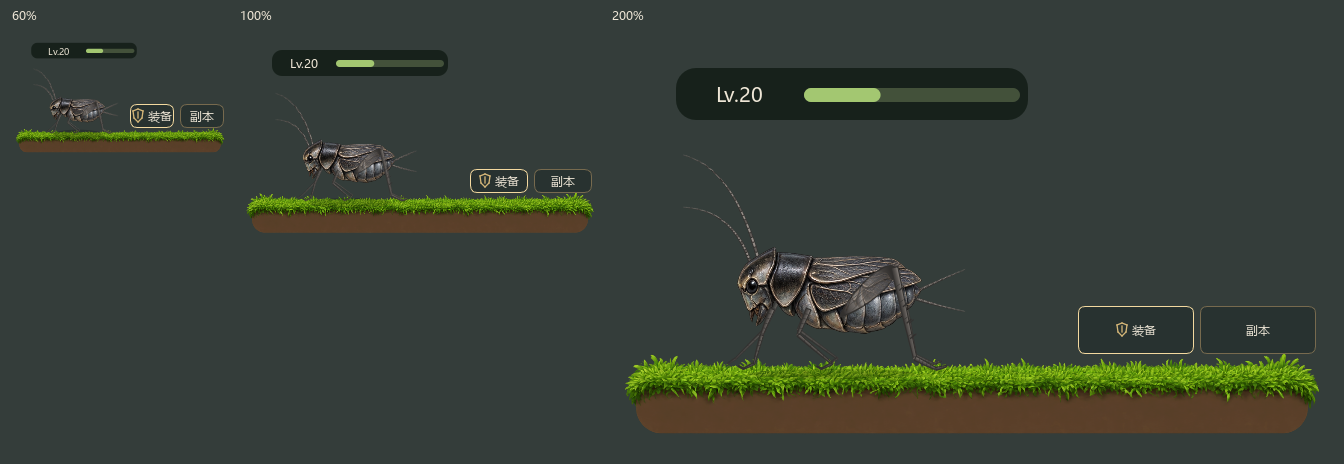
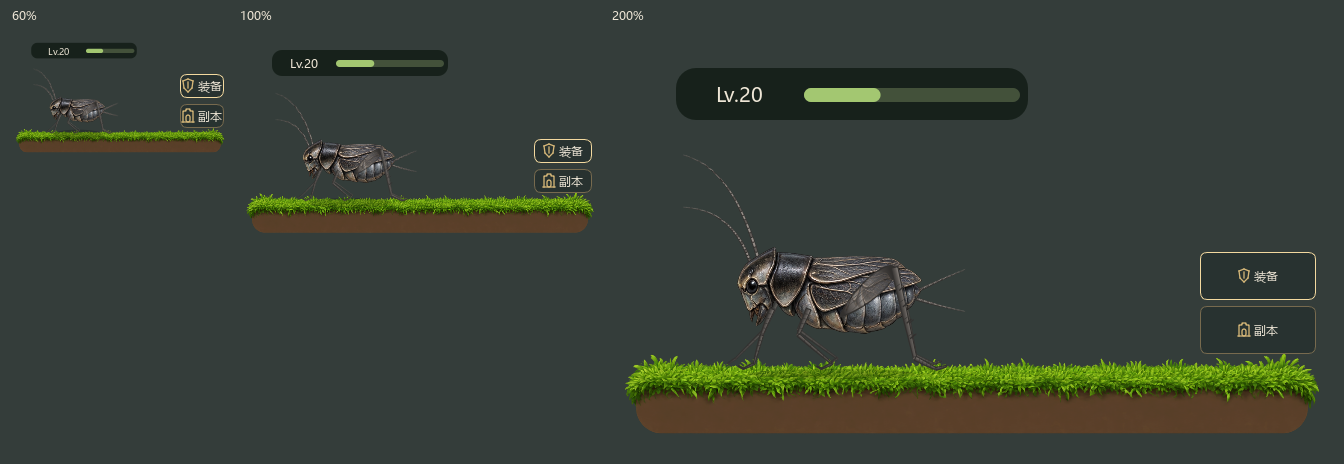
v0.6.14 Follow pet movement with open windows and stack idle actions

diff --git a/main.py b/main.py
@@ -145,6 +145,7 @@ class Pet(QWidget):
         self.btn_attr.clicked.connect(self._toggle_equipment_panel)
 
         self.btn_dungeon = QPushButton("副本", self)
+        self.btn_dungeon.setIcon(mode_icon("dungeon"))
         self.btn_dungeon.setStyleSheet(css)
         self.btn_dungeon.setFixedSize(58, 28)
         self.btn_dungeon.setCursor(Qt.CursorShape.PointingHandCursor)
@@ -190,11 +191,11 @@ class Pet(QWidget):
             bh = max(24, min(48, int(24 * self.zoom)))
             self.btn_attr.setFixedSize(bw, bh)
             self.btn_dungeon.setFixedSize(bw, bh)
-            bx = self.width() - 2*bw - 6 - int(8*self.zoom)
-            by = int((TOP_PAD+FOOT_Y-10)*self.zoom) - bh
+            bx = self.width() - bw - int(8*self.zoom)
+            by = int((TOP_PAD+FOOT_Y-10)*self.zoom) - 2*bh - 6
             self.btn_attr.move(bx, by)
             self.btn_attr.show()
-            self.btn_dungeon.move(bx + bw + 6, by)
+            self.btn_dungeon.move(bx, by + bh + 6)
             self.btn_dungeon.show()
 
     def _toggle_equipment_panel(self) -> None:
@@ -654,6 +655,23 @@ class Pet(QWidget):
             event.accept()
             return
         super().mousePressEvent(event)
+
+    def moveEvent(self, event) -> None:
+        super().moveEvent(event)
+        delta = event.pos() - event.oldPos()
+        if delta.isNull():
+            return
+        for name in ('panel', 'settings_panel', 'equip_panel', 'dungeon_sel', 'arena_win'):
+            panel = getattr(self, name, None)
+            if panel is None or not panel.isVisible():
+                continue
+            target = panel.pos() + delta
+            screen = QApplication.screenAt(target + panel.rect().center()) or self.screen()
+            bounds = screen.availableGeometry()
+            target.setX(max(bounds.left(), min(target.x(), bounds.right()-panel.width()+1)))
+            target.setY(max(bounds.top(), min(target.y(), bounds.bottom()-panel.height()+1)))
+            panel.move(target)
+            # 装备页自身的 moveEvent 继续负责右侧背包的贴靠与边界处理。
 
     def mouseMoveEvent(self, event) -> None:
         if self._dragging and (event.buttons() & Qt.MouseButton.LeftButton):

diff --git a/gameplay_checklist.py b/gameplay_checklist.py
@@ -38,10 +38,35 @@ class GameplayTests(unittest.TestCase):
             ground = self.pet._grass_rect(zoom)
             pix = sprite('grass')
             self.assertAlmostEqual(ground.width()/ground.height(), pix.width()/pix.height())
-            self.assertEqual(self.pet.btn_attr.y(), self.pet.btn_dungeon.y())
+            self.assertEqual(self.pet.btn_attr.x(), self.pet.btn_dungeon.x())
+            self.assertEqual(self.pet.btn_dungeon.y(), self.pet.btn_attr.y()+self.pet.btn_attr.height()+6)
+            self.assertEqual(self.pet.btn_attr.width(), max(44, min(116, int(58*zoom))))
+            self.assertEqual(self.pet.btn_attr.height(), max(24, min(48, int(24*zoom))))
+            self.assertFalse(self.pet.btn_dungeon.icon().isNull())
         self.pet.settings.show_bar = False
         self.pet._update_mask()
         self.assertTrue(self.pet.mask().contains(self.pet.btn_attr.geometry().center()))
+
+    def test_open_windows_follow_pet_movement(self):
+        from PySide6.QtCore import QPoint
+        self.pet.show()
+        self.pet.move(10, 10)
+        self.pet._toggle_equipment_panel()
+        equipment_panel = self.pet.equip_panel
+        self.pet.settings_panel.show()
+        equipment_panel.move(10, 10)
+        self.pet.settings_panel.move(10, 10)
+        self.app.processEvents()
+        before = [p.pos() for p in (equipment_panel, self.pet.settings_panel)]
+        self.pet.move(self.pet.pos()+QPoint(12, 9))
+        self.app.processEvents()
+        for panel, old in zip((equipment_panel, self.pet.settings_panel), before):
+            self.assertEqual(panel.pos(), old+QPoint(12, 9))
+        self.pet.settings_panel.hide()
+        hidden_pos = self.pet.settings_panel.pos()
+        self.pet.move(self.pet.pos()+QPoint(12, 9))
+        self.app.processEvents()
+        self.assertEqual(self.pet.settings_panel.pos(), hidden_pos)
 
     def test_context_menu_refreshes_state_and_routes_actions(self):
         from menu_ui import create_menu

diff --git a/ui_theme.py b/ui_theme.py
@@ -57,6 +57,11 @@ def mode_icon(kind):
         points = [QPointF(3,3), QPointF(8,1), QPointF(13,3), QPointF(12,10), QPointF(8,14), QPointF(4,10), QPointF(3,3)]
         for a,b in zip(points,points[1:]): p.drawLine(a,b)
         p.drawLine(8,4,8,10)
+    elif kind == 'dungeon':
+        # 城门：与装备盾牌共用暖金线条。
+        p.drawLine(2,14,14,14)
+        p.drawPolyline([QPointF(3,14), QPointF(3,3), QPointF(6,3), QPointF(6,1), QPointF(10,1), QPointF(10,3), QPointF(13,3), QPointF(13,14)])
+        p.drawRoundedRect(QRectF(6,7,4,7), 2, 2)
     else:
         p.drawRoundedRect(QRectF(2,2,12,12), 2, 2)
         p.drawLine(5,5,11,5)

diff --git a/AI_HANDOVER.md b/AI_HANDOVER.md
@@ -230,3 +230,8 @@
 - 挂机窗口基准改为 360×210、角色中心 CX=110；此条取代 v0.6.11 的尺寸及内嵌按钮布局。装备/副本按钮在蛐蛐右侧横向并排，位于草地上方。
 - _grass_rect 根据裁切后草地 sprite 的实际宽高比计算高度，绘制及 mask 共用几何，禁止用固定高度拉伸素材。
 - 保留绿色浓密草面及纯色土层。三档缩放预览已更新，完整检查 79 项。
+
+### v0.6.14：窗口跟随与竖排按钮
+- 用户更正右侧按钮为竖排，上装备、下副本，按钮尺寸算法保持 v0.6.13 不变；副本图标使用 ui_theme.mode_icon 的 dungeon 城门。
+- Pet.moveEvent 将可见关联窗口按位移同步移动，目标屏幕边缘约束位置。装备 drawer 仅由 EquipmentPanel.moveEvent 负责联动，不重复平移。隐藏面板不移动、不打开。
+- 完整检查 80 项（玩法 34 项），包含窗口同步及隐藏面板检查。

diff --git a/README.md b/README.md
@@ -123,7 +123,7 @@ QuQuBattleGame/
 
 每次修改完成并验证后，整理版本说明、提交 commit、创建递增版本 tag，并推送提交和该标签到 origin。玩家存档与偏好不随代码发布。
 
-当前版本：`v0.6.13`，详见 [版本记录](CHANGELOG.md)。
+当前版本：`v0.6.14`，详见 [版本记录](CHANGELOG.md)。
 
 ```
 git commit -m "v0.2: 属性与状态条"
@@ -147,7 +147,7 @@ git push -u origin main --tags
 
 ## 全项目回归
 
-运行 `python check_project.py`，执行语法检查及 79 项自动检查（包括十难度战斗模拟）。
+运行 `python check_project.py`，执行语法检查及 80 项自动检查（包括十难度战斗模拟）。
 自动回归使用临时存档，结果写入 `docs/validation_results.txt`。
 问题修复、模拟数据与验收边界见 [代码检查报告](docs/CODE_AUDIT.md)。
 

diff --git a/docs/CODE_AUDIT.md b/docs/CODE_AUDIT.md
@@ -110,3 +110,7 @@
 ## v0.6.13 补充
 
 挂机草地改用素材原比例，绘制与点击遮罩共用几何；装备/副本按钮移至角色右侧并排。现有三档缩放回归增加宽高比、右侧位置和同排断言，预览覆盖 60%、100%、200%。完整检查仍为 79 项。
+
+## v0.6.14 补充
+
+Pet 位移同步可见关联窗口，保留屏幕边界约束及装备背包联动；挂机按钮改竖排，尺寸不变，增加副本城门图标。新增跟随/隐藏面板回归，缩放回归检查竖排间距及原尺寸。完整检查 80 项。

diff --git a/CHANGELOG.md b/CHANGELOG.md
@@ -1,5 +1,11 @@
 # 版本记录
 
+## v0.6.14 · 2026-09-24
+
+- 移动蛐蛐时，已打开的属性、装备、设置、副本选择及竞技场窗口同步跟随；面板受屏幕边界约束，装备背包保持右侧贴靠。
+- 右侧装备/副本按钮改为竖排，保持各缩放档位原有按钮尺寸，副本增加暖金城门图标。
+- 新增窗口跟随回归，完整检查 80 项；更新挂机预览。
+
 ## v0.6.13 · 2026-09-24
 
 - 草地按素材原始宽高比绘制，消除纵向拉伸，地块整体更薄。
